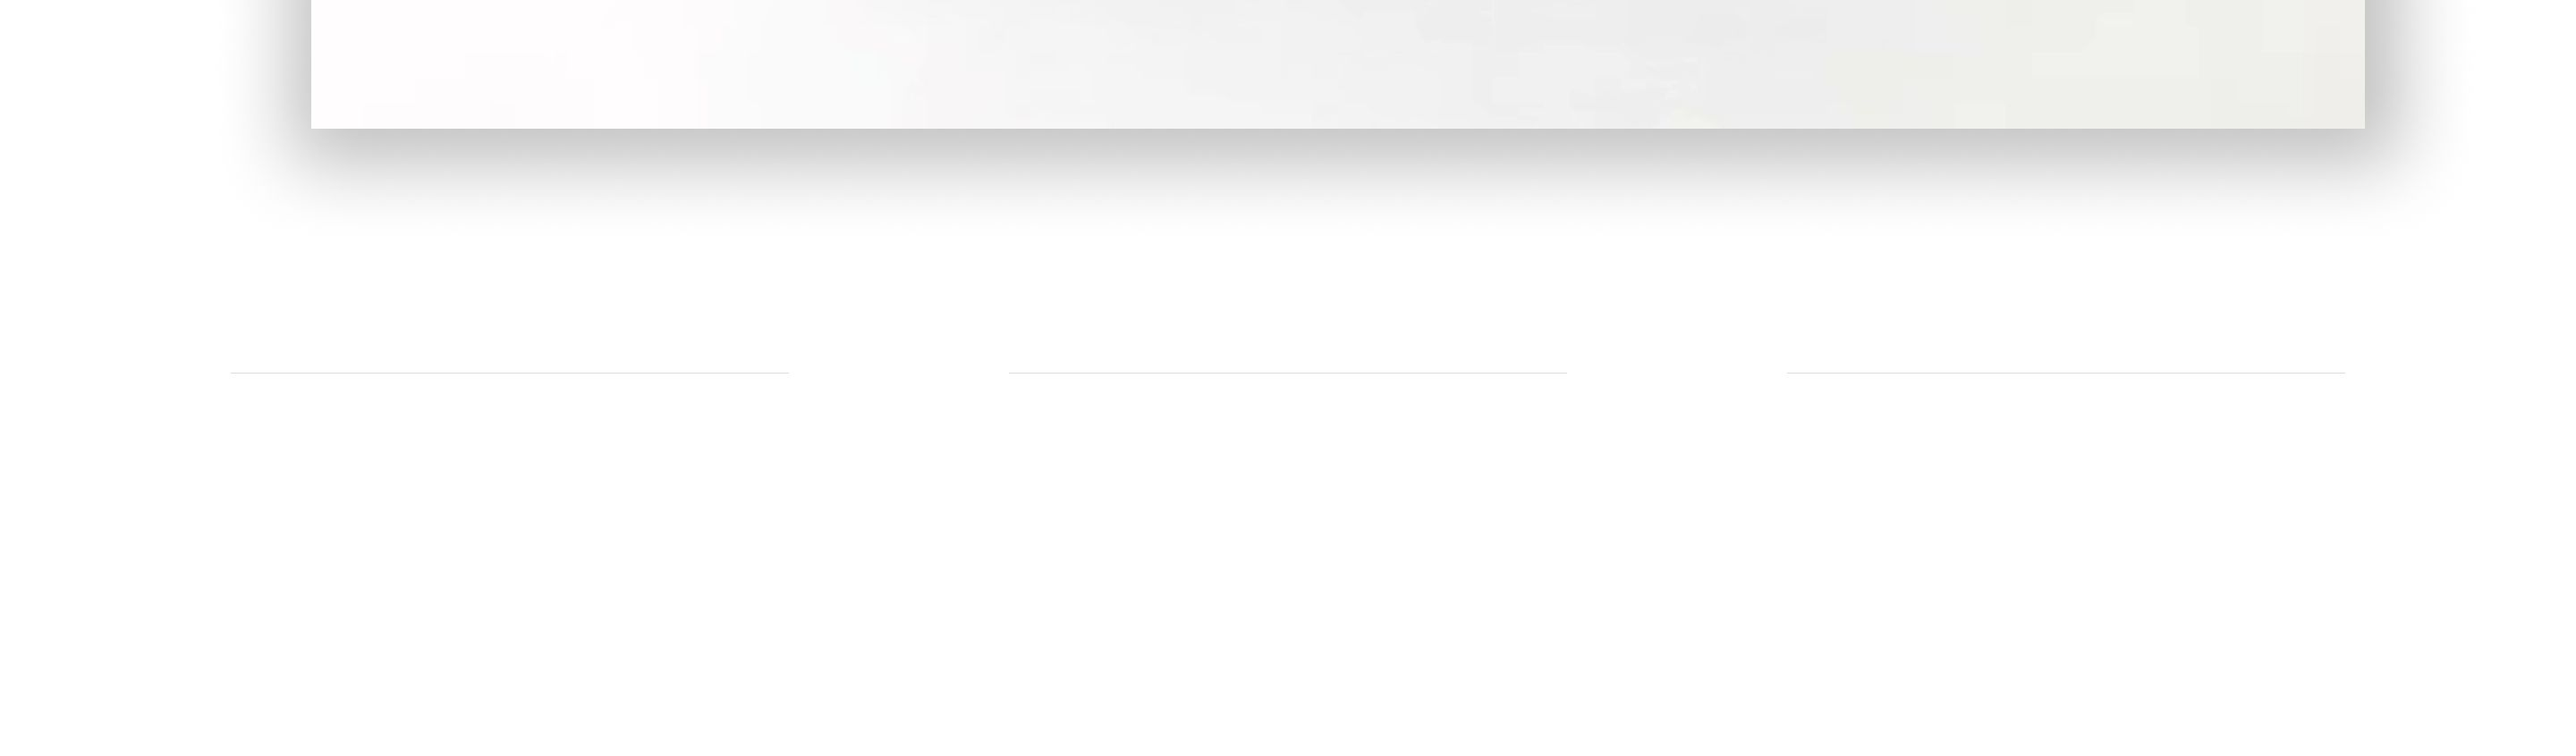
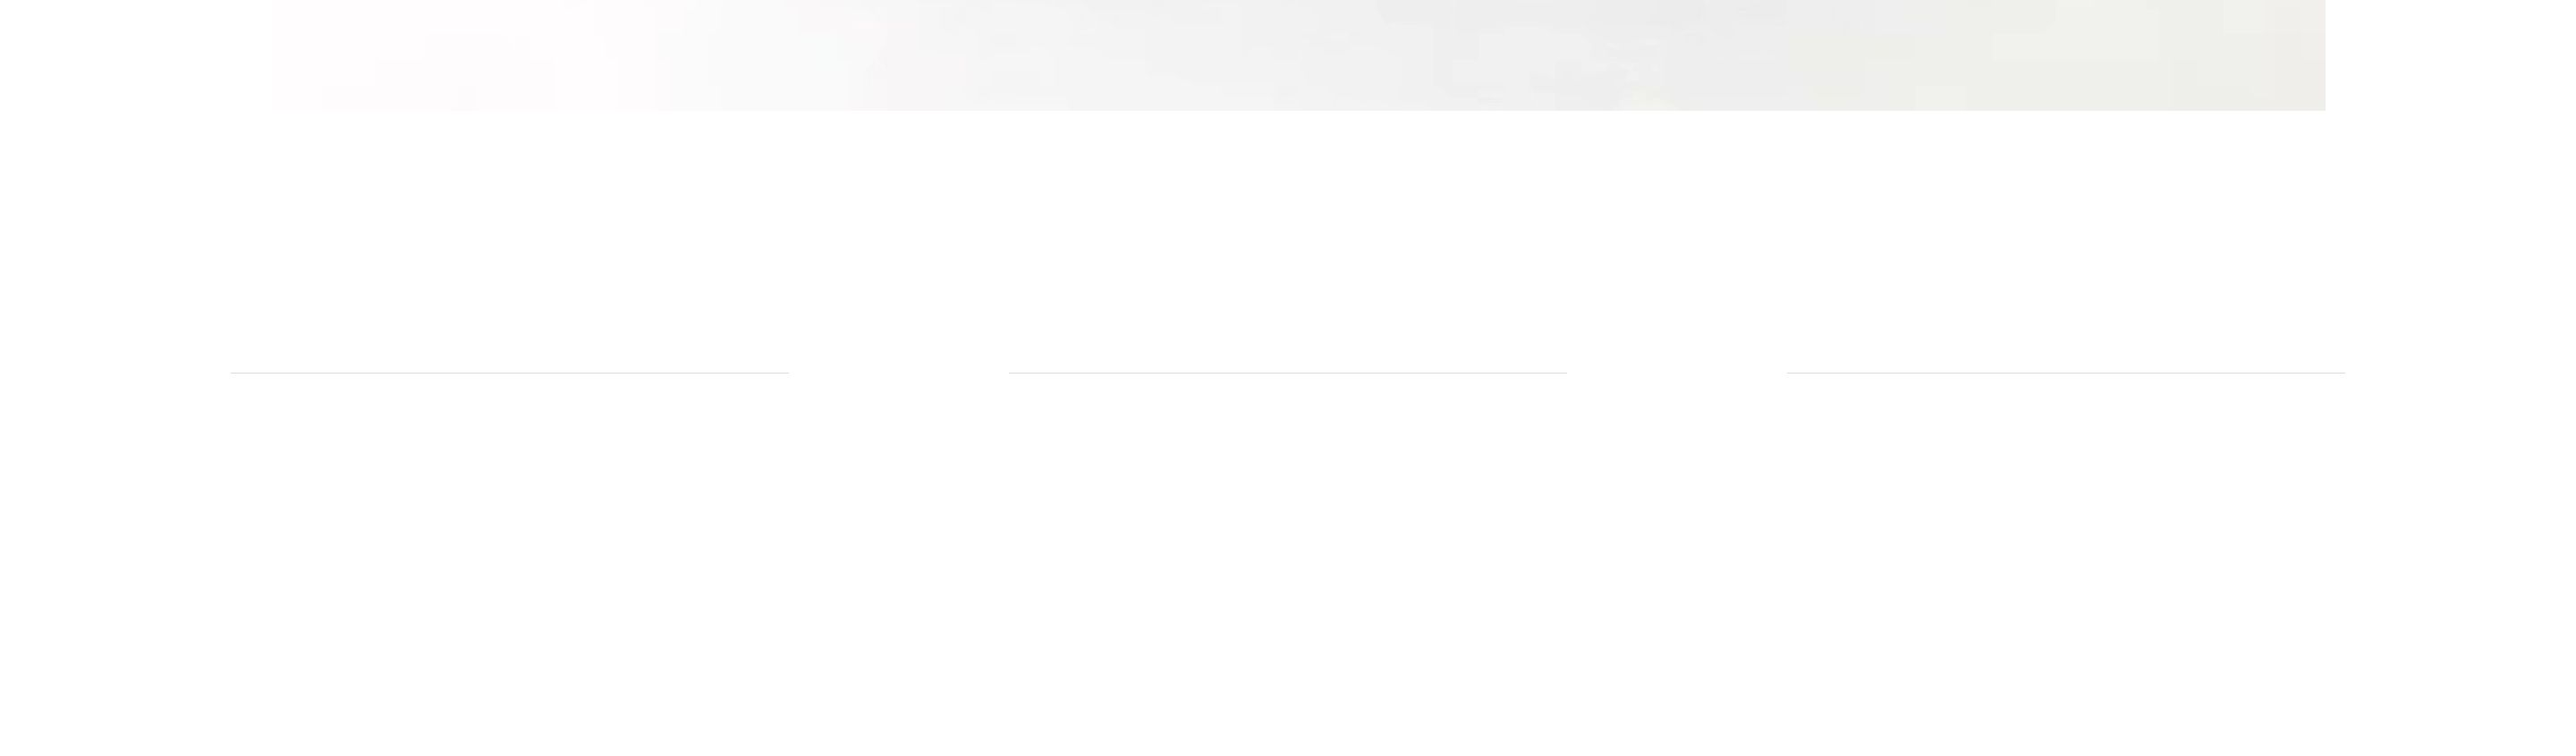
MamaLap: match latest Figma, drop side rail, new home thumbnail
Heading moved to its new Figma position, video frame moved and its shadow
removed (tiles re-exported), section rail removed, homepage card uses the
new blue hero.

Changed region(s): [[0.0938, 0.0, 0.9375, 0.2459]]

diff --git a/mamalap.html b/mamalap.html
@@ -4,7 +4,6 @@
 <meta name="viewport" content="width=device-width,initial-scale=1">
 <title>MamaLap · Evelin Achu Jacob</title>
 <script src="cursor.js"></script>
-<link rel="stylesheet" href="rail.css">
 <link rel="stylesheet" href="https://fonts.googleapis.com/css2?family=Raleway:wght@100;300;400;500;600;700&family=Love+Ya+Like+A+Sister&display=swap">
 <style>
 /* Exact copy of Figma "Desktop - 1" (MAMALAP, 1K9h724A5NtbOjFT7e9JYx, node 72:3), 1440 x 9423.
@@ -14,9 +13,10 @@
    On screens narrower than 1440 the whole canvas scales down; nothing reflows. */
 html,body{margin:0;background:#fff}
 body{-webkit-font-smoothing:antialiased;overflow-x:hidden}
+.cv{max-width:1440px;margin:0 auto}
 .canvas{position:relative;width:1440px;height:9423px;margin:0 auto;overflow:hidden;background:#fff}
 .tile{position:absolute;left:0;width:1440px;display:block}
-.vid{position:absolute;left:174px;top:8426px;width:1148px;height:646px;object-fit:cover;display:block;background:#f4f4f4}
+.vid{position:absolute;left:152px;top:8416px;width:1148px;height:646px;object-fit:cover;display:block;background:#f4f4f4}
 .t{position:absolute;margin:0;line-height:normal;white-space:pre-wrap;overflow-wrap:normal}
 .t.nw{white-space:nowrap}
 .li{display:block;position:relative;padding-left:1.25em}
@@ -62,45 +62,8 @@ body{-webkit-font-smoothing:antialiased;overflow-x:hidden}
 .k34{font-size:16px;font-weight:400;color:#6d6d6d;line-height:1.174;}
 </style>
 
-<div class="pw" style="--r-ink:#312F2F;--r-acc:#926F63;--r-faint:#8D98A3;--r-font:'Raleway',sans-serif">
-<aside class="rail" aria-label="Sections">
-  <ol>
-    <li><a href="#top">MamaLap</a></li>
-    <li><a href="#solution">The solution</a></li>
-    <li><a href="#overview">Overview</a></li>
-    <li><a href="#problem">The problem</a></li>
-    <li><a href="#simulation">Simulation</a></li>
-    <li><a href="#sequence">Feeding sequence</a></li>
-    <li><a href="#existing">Existing solutions</a></li>
-    <li><a href="#brief">Brief &amp; requirements</a></li>
-    <li><a href="#principle">Design principle</a></li>
-    <li><a href="#mockups">Quick mockups</a></li>
-    <li><a href="#why">Why the lap</a></li>
-    <li><a href="#forms">Form explorations</a></li>
-    <li><a href="#prototyping">Prototyping &amp; testing</a></li>
-    <li><a href="#final">Final user testing</a></li>
-    <li><a href="#manufacturing">Manufacturing</a></li>
-    <li><a href="#learnings">Learnings</a></li>
-  </ol>
-</aside>
 <div class="cv">
 <div class="canvas" id="canvas">
-<span class="anc" id="top" style="top:0px"></span>
-<span class="anc" id="solution" style="top:860px"></span>
-<span class="anc" id="overview" style="top:1490px"></span>
-<span class="anc" id="problem" style="top:2124px"></span>
-<span class="anc" id="simulation" style="top:2630px"></span>
-<span class="anc" id="sequence" style="top:3241px"></span>
-<span class="anc" id="existing" style="top:3775px"></span>
-<span class="anc" id="brief" style="top:4545px"></span>
-<span class="anc" id="principle" style="top:4842px"></span>
-<span class="anc" id="mockups" style="top:5228px"></span>
-<span class="anc" id="why" style="top:5812px"></span>
-<span class="anc" id="forms" style="top:6139px"></span>
-<span class="anc" id="prototyping" style="top:6719px"></span>
-<span class="anc" id="final" style="top:7639px"></span>
-<span class="anc" id="manufacturing" style="top:8096px"></span>
-<span class="anc" id="learnings" style="top:9123px"></span>
 <img class="tile" src="images/mamalap-figma/t0.jpg" style="top:0px;height:1500px" alt="MamaLap breastfeeding lap pillow, hero render">
 <img class="tile" src="images/mamalap-figma/t1.jpg" style="top:1500px;height:1500px" alt="">
 <img class="tile" src="images/mamalap-figma/t2.jpg" style="top:3000px;height:1500px" alt="">
@@ -110,8 +73,8 @@ body{-webkit-font-smoothing:antialiased;overflow-x:hidden}
 <img class="tile" src="images/mamalap-figma/t6.jpg" style="top:9000px;height:423px" alt="">
 <video class="vid" src="images/mamalap-figma/product-animation.mp4" poster="images/mamalap-figma/video-poster.jpg" autoplay muted loop playsinline preload="metadata" aria-label="MamaLap base and headrest, product animation"></video>
 
-<p class="t" style="left:104px;top:186px;width:710px;"><span class="l k0">MamaLaP</span></p>
-<p class="t" style="left:104px;top:293px;width:632px;"><span class="r k1">Breastfeeding support, designed for mobility</span></p>
+<p class="t" style="left:144px;top:268px;width:710px;"><span class="l k0">MamaLaP</span></p>
+<p class="t" style="left:144px;top:375px;width:632px;"><span class="r k1">Breastfeeding support, designed for mobility</span></p>
 <p class="t" style="left:107px;top:746px;width:227px;"><span class="r k2">Simple Product Design</span></p>
 <p class="t" style="left:389px;top:746px;width:227px;"><span class="r k2">Role</span></p>
 <p class="t" style="left:645px;top:746px;width:93px;"><span class="r k2">Timeline</span></p>
@@ -273,7 +236,6 @@ body{-webkit-font-smoothing:antialiased;overflow-x:hidden}
 <p class="t" style="left:988px;top:9230px;width:401px;"><span class="li"><span class="r k34">Iterative prototyping and user testing helped me refine the product based on real interactions, making it more intuitive and usable.</span></span></p>
 </div>
 </div>
-</div>
 
 <script>
 (function(){
@@ -283,5 +245,4 @@ body{-webkit-font-smoothing:antialiased;overflow-x:hidden}
   fit(); addEventListener('resize', fit);
 })();
 </script>
-<script src="rail.js"></script>
 </html>

diff --git a/index.html b/index.html
@@ -98,7 +98,7 @@ footer{margin:0 20px;padding:20px 6px 40px;border-top:1px solid var(--line);font
     <!-- reading order across the rows: SPD, KAI, TCP, CMF -->
     <div class="col">
       <a class="card" href="mamalap.html">
-        <div class="img"><img src="images/home/spd-mamalap-hero.jpg" width="1420" height="799" alt="MamaLap, a lilac breastfeeding lap support, with the MamaLap wordmark"></div>
+        <div class="img"><img src="images/home/spd-mamalap-hero-v2.jpg" width="1420" height="799" alt="MamaLap, a light blue two-part breastfeeding lap pillow, with the MamaLap wordmark"></div>
         <div class="cap"><span class="t">MamaLap: Breastfeeding support for new mothers</span><span class="y">2025</span></div>
       </a>
       <a class="card" href="calbre.html">
